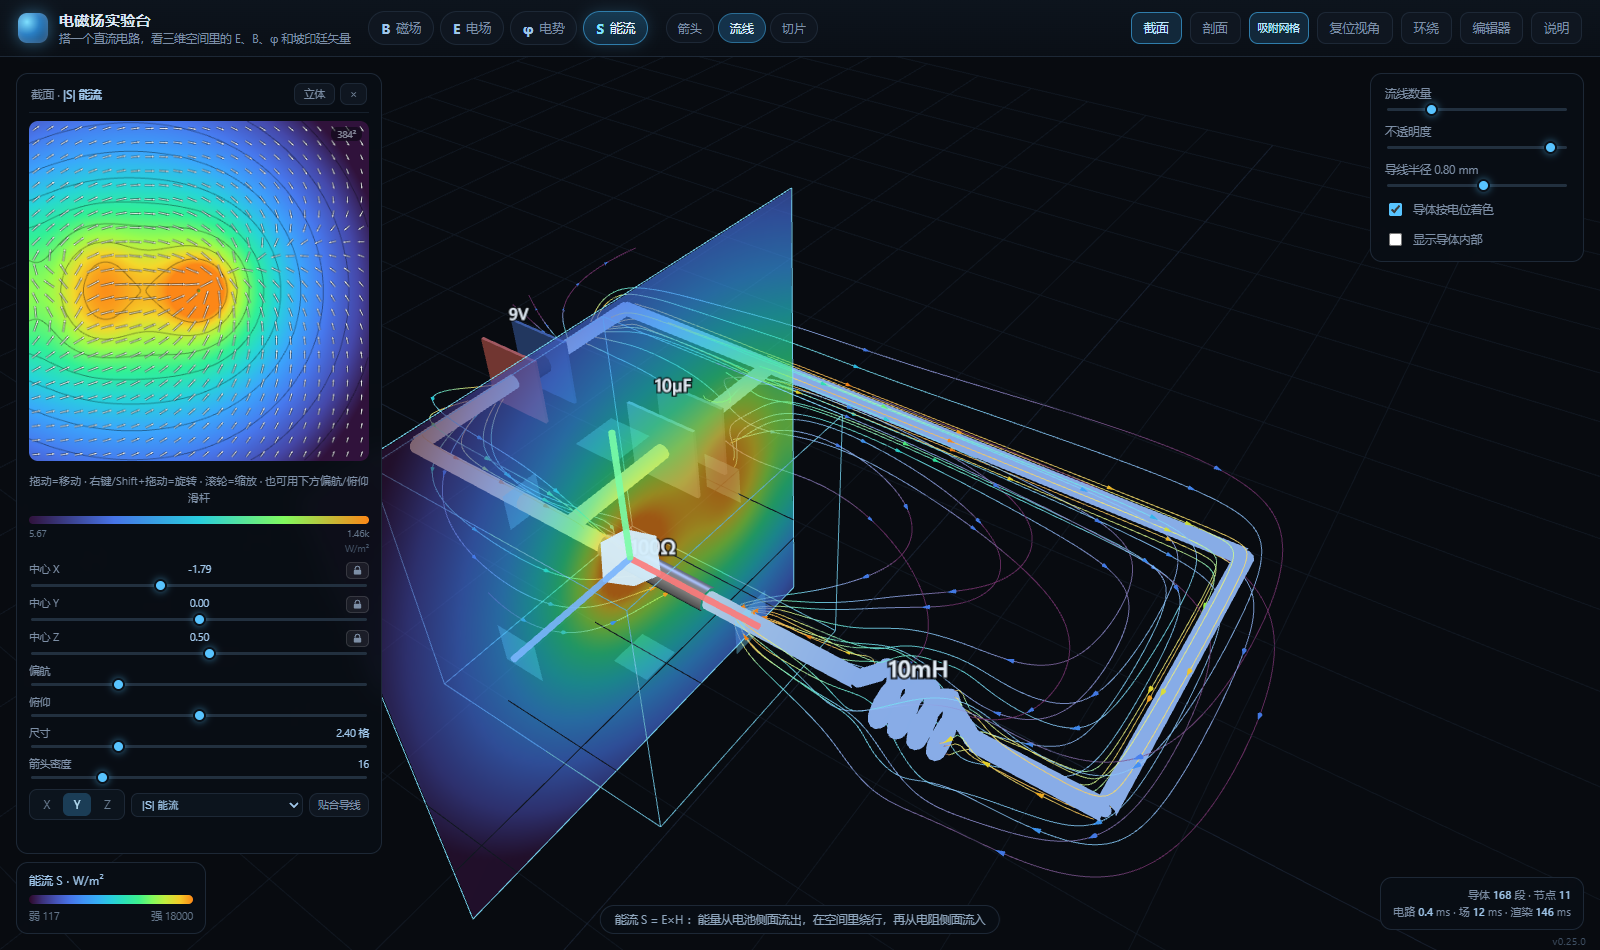
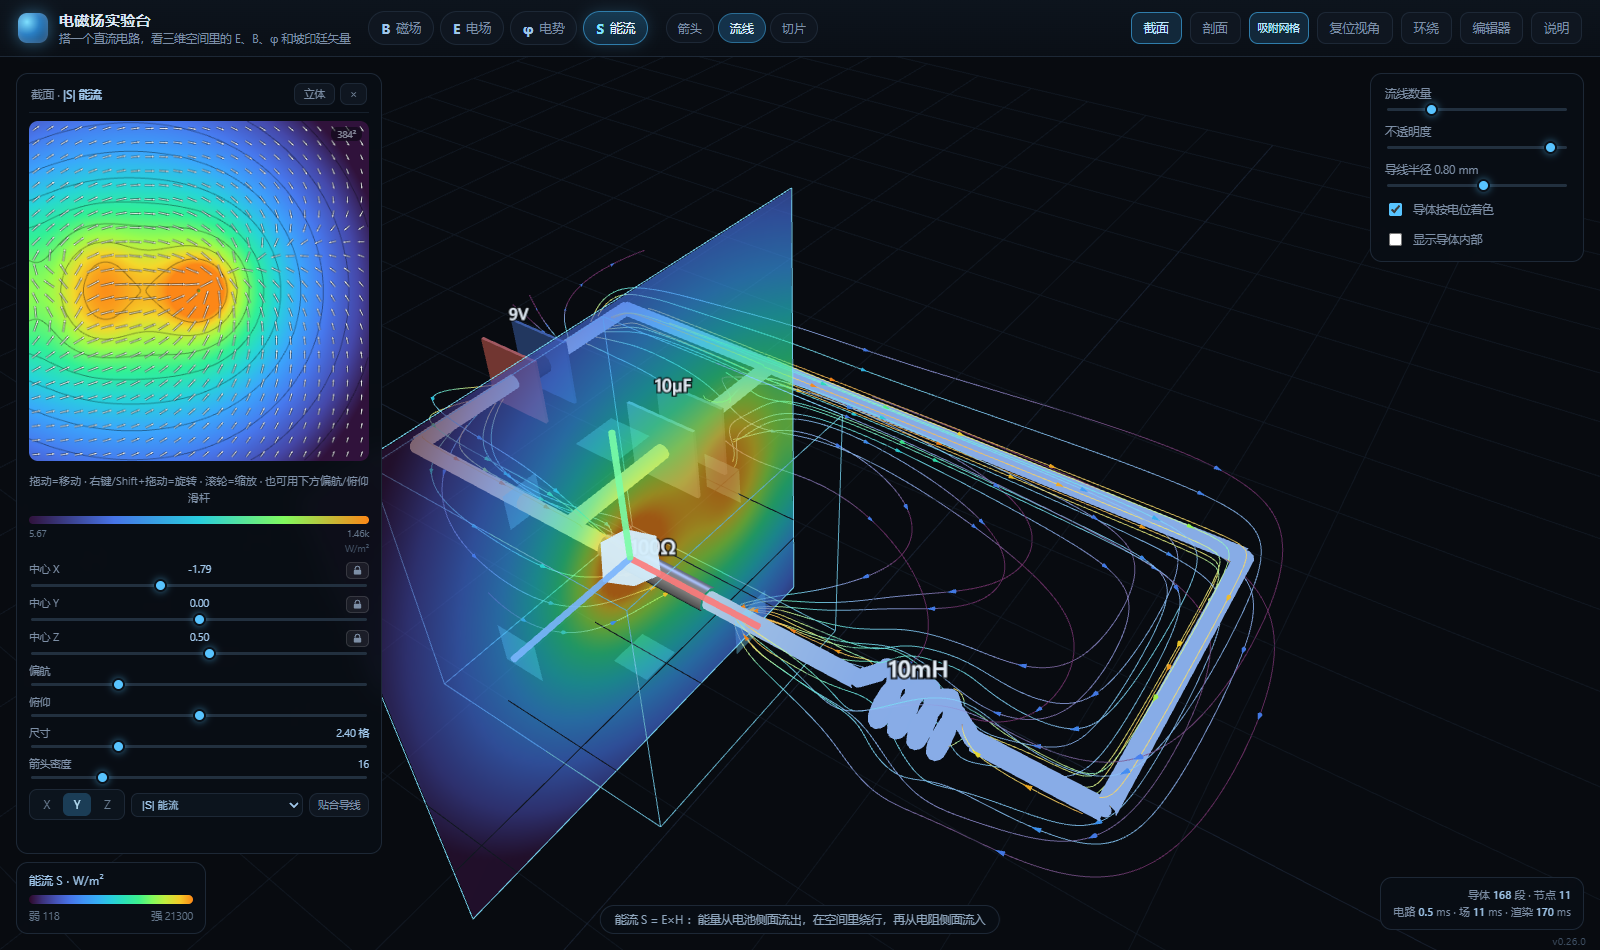
fix: 截取空间流线只剩几根（第三次同类问题）——站点按整段导体分布，多数落在盒外（v0.26.0）
诊断过程（不再是猜）：
- 在面板标题栏输出统计 [acc/n cand=.. st=.. out=.. near=..]（?dbg=1 打开）
- 读到 cand=6/28、st=9 out=21：78% 的种子被盒子边界拒掉
- 根因：候选是「整段导体」，站点按整段弧长分布，盒子只覆盖其中一小截，
  靠近盒面的站点加上径向偏移就出界

修法：
- clipSegToBox()：先把导体段裁剪到采样盒，只按「盒内那部分」的弧长布站点
- 每个站点按「到最近盒面的距离」限制半径上限，而不是生成后再丢弃
- 去重：种子与已接受线几乎重合的直接跳过（修「两根重叠」）
- 测试：新增「吸附后体块里确有导体 / 面板内部箭头 count>0 / 面板流线条数 ≥8」
  三条硬性断言，这类退化不会再静默通过
- README 教训补「盒子不是过滤器，是约束」一节
- 版本 0.26.0

diff --git a/js/viz.js b/js/viz.js
@@ -431,14 +431,19 @@ export class FieldViz {
     const marks = [];
     const tmp = [0, 0, 0];
     const accepted = [];
+    const stat = {
+      cand: candidates.length, seeds: 0, acc: 0, rejSeed: 0, rejShort: 0, rejClose: 0,
+      seedStat: this._seedStat || null,
+    };
 
     for (const sd of candidates) {
       if (accepted.length >= nLines) break;
+      stat.seeds++;
       const inside = !!(sd && sd.inside);
       const seed = inside ? sd.p : sd;
 
       // 先看种子点：太挤就直接跳过（便宜，能挡掉大部分候选）
-      if (!inside && nearOccupied(seed, sep * 0.85)) continue;
+      if (!inside && nearOccupied(seed, sep * 0.85)) { stat.rejSeed++; continue; }
 
       // 导体外面的场线不穿进导体；导体内部的场线本来就在里面，所以不设终止条件，
       // 步长也要按导体尺度缩小（导线只有 0.5mm，用 0.075 格的步长直接跨出去了）
@@ -447,7 +452,7 @@ export class FieldViz {
       const line = inside
         ? integrate(fn, seed, box, (sd.h || 0.004), 600, null)
         : integrate(fn, seed, box, stepH, field === 'E' ? 260 : 190, solver);
-      if (line.length < (inside ? 5 : 8)) continue;
+      if (line.length < (inside ? 5 : 8)) { stat.rejShort++; continue; }
 
       // 再看整条线：如果大半程都贴着已有线，就丢掉（只靠种子点判不够）
       if (!inside) {
@@ -456,7 +461,7 @@ export class FieldViz {
           total++;
           if (nearOccupied(line[n], sep * 0.62)) close++;
         }
-        if (total > 0 && close / total > 0.3) continue;
+        if (total > 0 && close / total > 0.3) { stat.rejClose++; continue; }
       }
       const lineMags = [];
       for (const p of line) {
@@ -465,7 +470,17 @@ export class FieldViz {
         lineMags.push(m);
         if (m > 0 && isFinite(m)) mags.push(m);
       }
+      // 种子几乎重合 = 同一条线（不同站点/不同半径落在同一处），不要重复画
+      let dup = false;
+      for (let n2 = 0; n2 < accepted.length; n2++) {
+        const q2 = accepted[n2];
+        const dx = q2[0] - seed[0], dy = q2[1] - seed[1], dz = q2[2] - seed[2];
+        if (dx * dx + dy * dy + dz * dz < (sep * 0.45) * (sep * 0.45)) { dup = true; break; }
+      }
+      if (dup) { stat.rejDup = (stat.rejDup || 0) + 1; continue; }
+
       accepted.push(seed);
+      stat.acc++;
       for (let n = 0; n < line.length; n += 2) addPoint(line[n]);
       if (line.length > 1) addPoint(line[line.length - 1]);
 
@@ -537,8 +552,9 @@ export class FieldViz {
     }
 
     const sortedM = [...mags].sort((a, b) => a - b);
+    stat.nLines = nLines; stat.sep = sep; stat.stepH = stepH;
     this.lastStats = {
-      lines: allPts.length, marks: marks.length, norm, mags,
+      lines: allPts.length, marks: marks.length, norm, mags, stat,
       lo: percentile(sortedM, 0.06), hi: percentile(sortedM, 0.995),
     };
   }
@@ -591,20 +607,29 @@ export class FieldViz {
       }
       return false;
     };
+    // 只保留「落在盒子里的那一段」导体的弧长：否则站点会布到盒子外面，
+    // 种子又被盒子边界整批拒掉（小盒子里 78% 就这样没了）
     const cand = [];
     const cum = [];
+    const tIn = [];              // 每段在盒子内的参数区间
     let total = 0;
     for (let k = 0; k < solver.n; k++) {
-      if (field === 'E' || field === 'phi' || Math.abs(solver.cur[k]) > 1e-9) {
-        if (!nearBox(k)) continue;
-        cand.push(k);
-        total += solver.len[k];
-        cum.push(total);
-      }
+      if (!(field === 'E' || field === 'phi' || Math.abs(solver.cur[k]) > 1e-9)) continue;
+      if (!nearBox(k)) continue;
+      const i3 = 3 * k;
+      const a = [solver.p0[i3] * M2W, solver.p0[i3 + 1] * M2W, solver.p0[i3 + 2] * M2W];
+      const b = [solver.p1[i3] * M2W, solver.p1[i3 + 1] * M2W, solver.p1[i3 + 2] * M2W];
+      const seg = clipSegToBox(a, b, box);
+      if (!seg) continue;
+      cand.push(k);
+      tIn.push(seg);
+      total += solver.len[k] * (seg[1] - seg[0]);
+      cum.push(total);
     }
     if (!cand.length) {
       for (let k = 0; k < solver.n; k++) {
         cand.push(k);
+        tIn.push([0, 1]);
         total += solver.len[k];
         cum.push(total);
       }
@@ -628,16 +653,21 @@ export class FieldViz {
     const ds = total / nStations;
 
     const seeds = [];
+    const seedStat = { stations: 0, outBox: 0, nearCond: 0 };
     // 按低差异顺序访问站点（而不是从 0 顺着来）：
     // 上层只会接受前 nLines 条，顺序访问会让线全挤在电路最前面那几段导线上
     for (let idx = 0; idx < nStations; idx++) {
       const a = Math.floor(fract(idx * PHI) * nStations);
+      seedStat.stations++;
       const sArc = (a + 0.5) * ds;
       let ci = 0;
       while (ci < cum.length - 1 && cum[ci] < sArc) ci++;
       const k = cand[ci];
       const segStart = ci === 0 ? 0 : cum[ci - 1];
-      const t = Math.max(0, Math.min(1, (sArc - segStart) / Math.max(solver.len[k], 1e-12)));
+      const [ta, tb] = tIn[ci];
+      const frac = Math.max(0, Math.min(1,
+        (sArc - segStart) / Math.max(solver.len[k] * (tb - ta), 1e-12)));
+      const t = ta + (tb - ta) * frac;
 
       const i3 = 3 * k;
       const x0 = solver.p0[i3], y0 = solver.p0[i3 + 1], z0 = solver.p0[i3 + 2];
@@ -649,8 +679,19 @@ export class FieldViz {
       const e2 = cross(dir, e1);
 
       const radW = (solver.rad ? solver.rad[k] : solver.conductorRadius) * M2W;
-      const hi = Math.max(radW * 1.6, Math.min(rMax, radW * 12));
-      const lo = Math.min(hi * 0.92, Math.max(radW * 1.5, sep * 0.55));
+
+      // 站点到最近盒面的距离：半径必须小于它，否则这一圈的种子会掉到盒子外面。
+      // 之前是「先生成再丢弃」，小盒子里 78% 的种子就这样被扔掉了，
+      // 表现就是「流线又只剩几根」。
+      const dEdge = Math.min(
+        base[0] * M2W - box.min[0], box.max[0] - base[0] * M2W,
+        base[1] * M2W - box.min[1], box.max[1] - base[1] * M2W,
+        base[2] * M2W - box.min[2], box.max[2] - base[2] * M2W
+      );
+      if (dEdge <= radW) continue;          // 站点本身贴在盒面上，这一站跳过
+
+      const hi = Math.max(radW * 1.4, Math.min(Math.min(rMax, radW * 12), dEdge * 0.8));
+      const lo = Math.min(hi * 0.92, Math.max(radW * 1.35, sep * 0.55));
 
       // 站点之间交错一下起始方位，线不至于全从一个方向「长出来」
       const th = a * GOLDEN_ANGLE;
@@ -664,13 +705,14 @@ export class FieldViz {
           by + e1[1] * ca + e2[1] * sa,
           bz + e1[2] * ca + e2[2] * sa,
         ];
-        if (p[0] < box.min[0] || p[0] > box.max[0]) continue;
-        if (p[1] < box.min[1] || p[1] > box.max[1]) continue;
-        if (p[2] < box.min[2] || p[2] > box.max[2]) continue;
-        if (nearestConductorRatio(solver, p[0] * W2M, p[1] * W2M, p[2] * W2M) < 1.2) continue;
+        if (p[0] < box.min[0] || p[0] > box.max[0] ||
+            p[1] < box.min[1] || p[1] > box.max[1] ||
+            p[2] < box.min[2] || p[2] > box.max[2]) { seedStat.outBox++; continue; }
+        if (nearestConductorRatio(solver, p[0] * W2M, p[1] * W2M, p[2] * W2M) < 1.2) { seedStat.nearCond++; continue; }
         seeds.push(p);
       }
     }
+    this._seedStat = seedStat;
     return seeds;
   }
 
@@ -884,6 +926,27 @@ function makeStreamArrowGeometry() {
   const g = new THREE.ConeGeometry(0.019, 0.072, 5, 1, true);
   g.translate(0, 0.036, 0);
   return g;
+}
+
+/** 把线段裁剪到 AABB 内，返回 [t0, t1]（0..1）或 null */
+function clipSegToBox(a, b, box) {
+  let t0 = 0, t1 = 1;
+  const d = [b[0] - a[0], b[1] - a[1], b[2] - a[2]];
+  const lo = [box.min[0], box.min[1], box.min[2]];
+  const hi = [box.max[0], box.max[1], box.max[2]];
+  for (let i = 0; i < 3; i++) {
+    if (Math.abs(d[i]) < 1e-12) {
+      if (a[i] < lo[i] || a[i] > hi[i]) return null;
+      continue;
+    }
+    let ta = (lo[i] - a[i]) / d[i];
+    let tb = (hi[i] - a[i]) / d[i];
+    if (ta > tb) { const tmp = ta; ta = tb; tb = tmp; }
+    t0 = Math.max(t0, ta);
+    t1 = Math.min(t1, tb);
+    if (t0 > t1) return null;
+  }
+  return t1 > t0 ? [t0, t1] : null;
 }
 
 function nearestConductor(solver, x, y, z) {

diff --git a/js/app.js b/js/app.js
@@ -171,10 +171,19 @@ function updatePane() {
     slicePos: state.slicePos,
   });
   const info = FIELD_INFO[state.field];
+  const st = slicePane.viz.lastStats && slicePane.viz.lastStats.stat;
+  const ss = st && st.seedStat;
+  let dbg = '';
+  if (st) {
+    dbg = `  [${st.acc}/${st.nLines} cand=${st.cand}`;
+    if (ss) dbg += ` st=${ss.stations} out=${ss.outBox} near=${ss.nearCond}`;
+    dbg += ']';
+  }
   const inBox = slicePane._hasConductor !== false;
   $('sp-sub').textContent = inBox
     ? `${info.label} · ${MODE_LABEL[state.mode]} · 体块内加密采样`
     : `${info.label} · ${MODE_LABEL[state.mode]} · 体块里没有导体`;
+  if (state.debugStats) $('sp-sub').textContent += dbg;
 }
 
 function updateViz() {
@@ -195,6 +204,9 @@ function updateViz() {
     $('hint').textContent = '当前场强近似为零：电路里没有电流（或没有电荷），所以画不出场';
   }
   const t = $('stats');
+  const st = viz.lastStats && viz.lastStats.stat;
+  if (st) t.dataset.debug = `n=${st.nLines} cand=${st.cand} acc=${st.acc} `
+    + `seed=${st.rejSeed} short=${st.rejShort} close=${st.rejClose} sep=${st.sep.toFixed(3)}`;
   const n = viz.lastStats?.count ?? viz.lastStats?.lines ?? viz.lastStats?.N ?? 0;
   if (n) t.dataset.samples = n;
 }
@@ -595,6 +607,7 @@ const qs = new URLSearchParams(location.search);
     }
   }
   if (qs.get('seeds') === 'uniform') viz.seedMode = 'uniform';
+  if (qs.get('dbg') === '1') state.debugStats = true;
   if (qs.get('circuit') === 'simple') circuit.elements = createSimpleLoop().elements;
   if (qs.get('inside') === '1') state.interior = true;
   if (qs.get('wire')) state.wireRadius = Math.min(0.14, Math.max(0.01, +qs.get('wire') / 100));
@@ -892,6 +905,37 @@ function runSelfTest() {
       ok(false, '截面锁定测试抛错', String(err.message).slice(0, 80));
       state.sliceLock.x = false;
       slice.setLocks(state.sliceLock);
+    }
+
+    // 9.588 面板：吸附到导线后，内部箭头必须存在
+    try {
+      slicePane.snapToWire();
+      const wb = slicePane.worldBox;
+      let has = false;
+      for (let k = 0; k < sceneData.solver.n && !has; k++) {
+        const i3 = 3 * k;
+        const x = sceneData.solver.p0[i3] * 100, y = sceneData.solver.p0[i3 + 1] * 100, z = sceneData.solver.p0[i3 + 2] * 100;
+        has = x >= wb.min[0] && x <= wb.max[0] && y >= wb.min[1] && y <= wb.max[1] && z >= wb.min[2] && z <= wb.max[2];
+      }
+      ok(has, '吸附后体块里确实有导体');
+      state.interior = true;
+      slicePane.update({
+        field: 'B', mode: 'arrows', density: 0.45, interior: true,
+        opacity: 0.95, sliceAxis: 'y', slicePos: 0,
+      });
+      const ia2 = slicePane.viz.interiorArrows;
+      ok(!!ia2 && ia2.count > 0, `面板内部箭头 count=${ia2 ? ia2.count : 'none'}`);
+      slicePane.update({
+        field: 'B', mode: 'stream', density: 0.45, interior: false,
+        opacity: 0.95, sliceAxis: 'y', slicePos: 0,
+      });
+      const st = slicePane.viz.lastStats && slicePane.viz.lastStats.stat;
+      ok(!!st && st.acc >= 8, `面板流线条数 ${st ? st.acc : '?'} ≥ 8`);
+      state.interior = false;
+      slicePane.snapToWire();
+    } catch (err) {
+      ok(false, '面板内部箭头/流线测试抛错', String(err.message).slice(0, 80));
+      state.interior = false;
     }
 
     // 9.59 面板里的导体内部箭头

diff --git a/js/version.js b/js/version.js
@@ -2,5 +2,5 @@
  * version.js —— 版本号的唯一来源
  * BUILD 由 tools/build_single.py 在打包时写入 git 短哈希。
  */
-export const VERSION = '0.25.0';
+export const VERSION = '0.26.0';
 export const BUILD = null;

diff --git a/README.md b/README.md
@@ -359,6 +359,21 @@ em-field-lab/
 > 教训：自检要断言**用户能看见的那个对象**（框的位置、材质的透明度、网格数量），
 > 而不只是数据层的中间变量。
 
+### 一点五、「盒子」不是过滤器，是约束
+
+同一个 bug 在流线上**重复出现了三次**，每次的形态都是「流线只剩几根」：
+
+1. 撒点半径写死 0.2~1 格 → 小盒子里种子全在盒外
+2. 积分步长写死 0.075 格 → 一条线只走四五步就被 `length < 8` 滤掉
+3. 站点按「整段导体」的弧长分布 → 大部分站点落在盒子外面
+
+**根因是同一个**：把采样盒当成「生成之后再筛一遍」的过滤器。
+正确的做法是**先按盒子裁剪，再在盒内布点**——种子、步长、半径全部由盒内几何决定。
+
+> 教训：凡是「先生成一大批、再按边界筛掉」的写法，都要先问一句
+> **筛完之后还剩多少**。用数字验证（`cand=24 st=9 out=0` 这种），
+> 不要靠看图片判断「好像有几根」。
+
 ### 二、绝对阈值 vs 相对尺度
 
 同一个错误犯了三次，都是「写死的绝对值在另一种尺度下不成立」：
